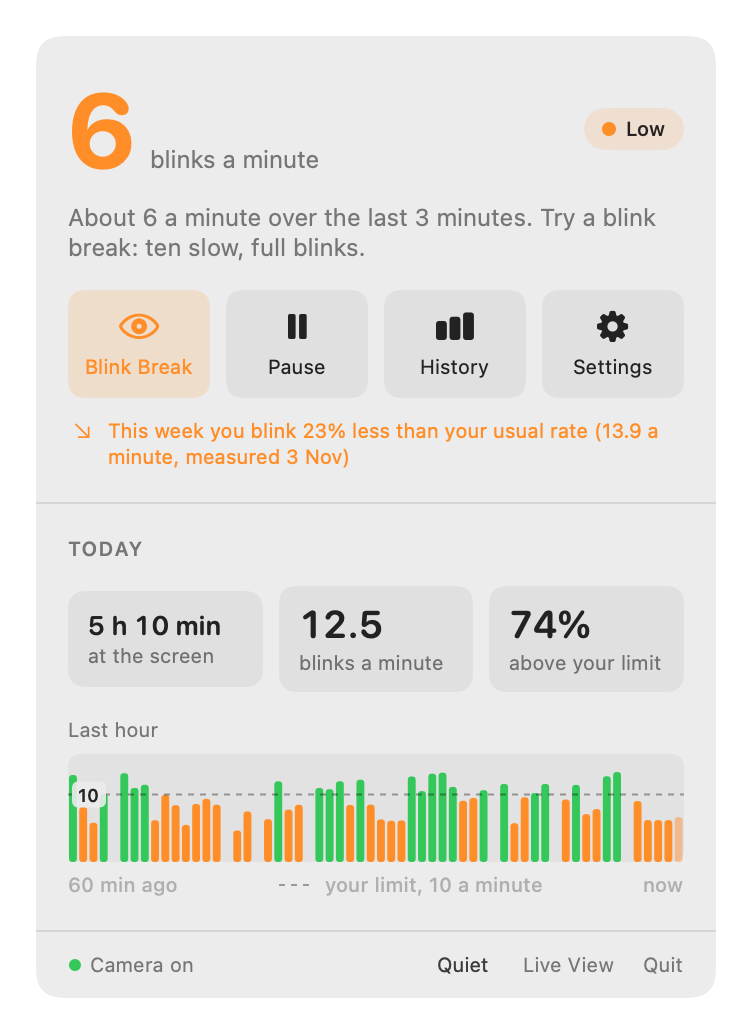
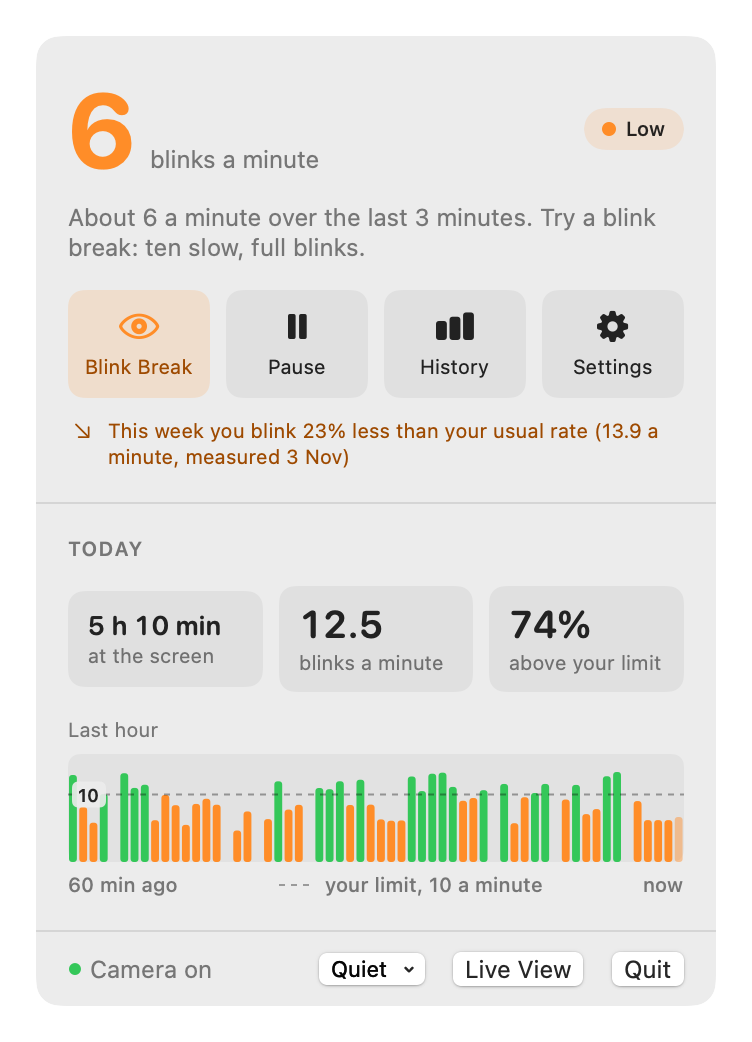
Reading comfort: warnings one can read, the Mac's display settings honoured, chips that wrap
Orange text on the light background was about 1.9 to 1. Warnings are now
written in an orange made for text, darker in light mode and under Increase
Contrast; bars and dots keep the plain orange. Reduce Motion stops the
menu-bar eye from blinking back and the dot from pulsing. Differentiate
without colour draws bars under the limit hollow. The tick of a done step
sits on a darker green. The chart's legend and axis leave the faintest grey,
and Quiet, Live View and Quit are drawn as buttons. Each of the panel's four
tiles has a letter, said in its tooltip. A routine's times go to a second
line when one is not enough: they used to disappear.

diff --git a/Sources/BlinkMonitor/MenuBar/MenuPanelView.swift b/Sources/BlinkMonitor/MenuBar/MenuPanelView.swift
@@ -241,11 +241,13 @@ private struct StatusPill: View {
     let color: Color
     /// The dot swells for a moment each time this changes: one pulse per blink.
     let pulse: Int
+    @Environment(\.accessibilityReduceMotion) private var reduceMotion
 
     var body: some View {
         HStack(spacing: 5) {
+            // With Reduce Motion the dot does not swell: the count beside it still moves.
             Circle().fill(color).frame(width: 7, height: 7)
-                .phaseAnimator([1.0, 1.9, 1.0], trigger: pulse) { dot, scale in
+                .phaseAnimator(reduceMotion ? [1.0] : [1.0, 1.9, 1.0], trigger: pulse) { dot, scale in
                     dot.scaleEffect(scale)
                 } animation: { _ in .easeOut(duration: 0.14) }
             Text(text).font(.caption.weight(.medium))
@@ -351,7 +353,7 @@ private struct Notes: View {
             lines.append(("checkmark.circle", tally, .secondary))
         }
         if reminders.notificationsRefused, preferences.remindersOn || preferences.breakNudgesOn {
-            lines.append(("bell.slash", "Notifications are off for Blink Monitor: reminders only show here and in the menu bar. Settings says how to allow them.", .orange))
+            lines.append(("bell.slash", "Notifications are off for Blink Monitor: reminders only show here and in the menu bar. Settings says how to allow them.", .warningText))
         }
         guard preferences.automaticLimit else { return lines }
         if let reference = preferences.reference {
@@ -360,7 +362,7 @@ private struct Notes: View {
                drift >= Baseline.driftWorthSaying {
                 lines.append(("arrow.down.right",
                               String(format: "This week you blink %.0f%% less than your usual rate (%@ a minute, measured %@)",
-                                     drift * 100, Format.rate(reference.rate), Format.day(reference.measuredOn)), .orange))
+                                     drift * 100, Format.rate(reference.rate), Format.day(reference.measuredOn)), .warningText))
             }
         } else {
             lines.append(("gauge.with.needle",
@@ -431,7 +433,7 @@ private struct TodaySection: View {
                     Text("now")
                 }
                 .font(.caption2)
-                .foregroundStyle(.tertiary)
+                .foregroundStyle(.secondary)       // it says what the chart is: not the faintest grey
             }
         }
     }
@@ -465,6 +467,7 @@ private struct DashedLine: View {
 /// Orange = under the limit (the dashed line). The minute in progress is drawn lighter:
 /// its rate is not final.
 private struct MinuteBars: View {
+    @Environment(\.accessibilityDifferentiateWithoutColor) private var withoutColour
     let hour: LastHour
     let limit: Double
     let hovered: Int?
@@ -487,7 +490,13 @@ private struct MinuteBars: View {
                 let bar = CGRect(x: CGFloat(59 - ago) * slot + 0.5, y: size.height - height,
                                  width: max(slot - 1.2, 1), height: height)
                 let colour: Color = rate < limit ? .orange : .green
-                context.fill(Path(roundedRect: bar, cornerRadius: 1.5), with: .color(colour.opacity(ago == 0 ? 0.45 : 1)))
+                if withoutColour && rate < limit {
+                    // "Differentiate without colour": a minute under the limit is hollow.
+                    context.stroke(Path(roundedRect: bar.insetBy(dx: 0.6, dy: 0.6), cornerRadius: 1.5),
+                                   with: .color(colour.opacity(ago == 0 ? 0.45 : 1)), lineWidth: 1.2)
+                } else {
+                    context.fill(Path(roundedRect: bar, cornerRadius: 1.5), with: .color(colour.opacity(ago == 0 ? 0.45 : 1)))
+                }
             }
 
             guard !hour.isEmpty else { return }       // nothing to compare with the limit yet
@@ -546,26 +555,34 @@ private struct ActionTiles: View {
                 }
                 .disabled(!status.isCameraOn)
                 // A greyed tile says why.
-                .help(status.isCameraOn ? "Ten slow, full blinks, counted by the camera"
+                .help(status.isCameraOn ? "Ten slow, full blinks, counted by the camera (B)"
                                         : "The camera counts the blinks of a blink break, and it is off now.")
+                .keyboardShortcut("b", modifiers: [])
 
                 if model.isPaused {
                     // During a timer, Resume is there but not the thing to press: the
                     // camera comes back by itself when the timer ends.
                     let timed = model.routines.session.session != nil
                     ActionTile(symbol: "play.fill", title: "Resume", tint: timed ? nil : .accentColor) { model.resume() }
-                        .help(timed ? "Turn the camera back on now, before the timer ends" : "Turn the camera back on")
+                        .help(timed ? "Turn the camera back on now, before the timer ends (P)" : "Turn the camera back on (P)")
+                        .keyboardShortcut("p", modifiers: [])
                 } else {
                     ActionTile(symbol: "pause.fill", title: "Pause", tint: state.choosingPause ? .accentColor : nil) {
                         state.choosingPause.toggle()
                     }
                     .disabled(model.lifecycle != .running)
-                    .help(model.lifecycle == .running ? "Turn the camera off: its green light goes out"
+                    .help(model.lifecycle == .running ? "Turn the camera off: its green light goes out (P)"
                                                       : "The camera is not running, so there is nothing to pause.")
+                    .keyboardShortcut("p", modifiers: [])
                 }
 
+                // A letter for each tile, said in its tooltip: the panel had no keyboard path.
                 ActionTile(symbol: "chart.bar.fill", title: "History") { actions.openHistory() }
+                    .help("Your last seven days, hour by hour (H)")
+                    .keyboardShortcut("h", modifiers: [])
                 ActionTile(symbol: "gearshape.fill", title: "Settings") { actions.openSettings() }
+                    .help("Every choice the app remembers (S, or Command-comma)")
+                    .keyboardShortcut("s", modifiers: [])
             }
 
             if state.choosingPause && !model.isPaused {
@@ -608,7 +625,6 @@ private struct FooterRow: View {
                         .help("The green light beside the camera is Blink Monitor counting your blinks. Pause turns it off.")
                 } else {
                     Text("Blink Monitor \(AppInfo.version)")
-                        .foregroundStyle(.tertiary)
                 }
                 Spacer()
                 if bare {
@@ -621,10 +637,9 @@ private struct FooterRow: View {
                     Button("For 1 Hour") { model.reminders.setQuiet(.oneHour) }
                     Button("Until Tomorrow") { model.reminders.setQuiet(.untilTomorrow) }
                 } label: {
-                    Text("Quiet").font(.caption).foregroundStyle(.secondary)
+                    Text("Quiet")
                 }
-                .menuStyle(.borderlessButton)
-                .menuIndicator(.hidden)
+                .menuStyle(.button)
                 .controlSize(.small)
                 .fixedSize()
                 .help("No reminder, no look-away break and no sound for a while. Blinks are still counted.")
@@ -633,8 +648,9 @@ private struct FooterRow: View {
                 }
                 Button("Quit") { actions.quit() }
             }
-            .font(.caption)
-            .buttonStyle(.plain)
+            // Drawn as buttons, at a size one can read: they were three grey words.
+            .font(.callout)
+            .controlSize(.small)
             .foregroundStyle(.secondary)
     }
 }
@@ -679,10 +695,12 @@ private struct ActionTile: View {
                 Image(systemName: symbol)
                     .font(.system(size: 15, weight: .medium))
                     .frame(height: 18)
+                // The word of an orange tile is written in the orange made for text.
                 Text(title)
                     .font(.caption)
                     .lineLimit(1)
                     .minimumScaleFactor(0.85)
+                    .foregroundStyle(tint == .orange ? Color.warningText : (tint ?? .primary))
             }
             .frame(maxWidth: .infinity)
             .padding(.vertical, 9)

diff --git a/Sources/BlinkUI/Comfort.swift b/Sources/BlinkUI/Comfort.swift
@@ -1,0 +1,73 @@
+import SwiftUI
+import AppKit
+
+/// Reading comfort: the colours and the system settings that people with tired eyes rely
+/// on. They are the people this app is for.
+public extension Color {
+
+    /// Orange for TEXT. Plain orange on the light window background is about 1.9 to 1,
+    /// where 4.5 to 1 is the usual minimum: the app's warnings were its least readable
+    /// words. This one is darkened in light mode (about 5 to 1), and darker still when
+    /// Increase Contrast is on. Bars, dots and symbols keep the plain orange.
+    static let warningText = Color(nsColor: NSColor(name: nil) { appearance in
+        switch appearance.bestMatch(from: [.aqua, .darkAqua, .accessibilityHighContrastAqua, .accessibilityHighContrastDarkAqua]) {
+        case .darkAqua: return .systemOrange
+        case .accessibilityHighContrastDarkAqua: return NSColor(srgbRed: 1.0, green: 0.72, blue: 0.35, alpha: 1)
+        case .accessibilityHighContrastAqua: return NSColor(srgbRed: 0.48, green: 0.21, blue: 0.0, alpha: 1)
+        default: return NSColor(srgbRed: 0.62, green: 0.29, blue: 0.0, alpha: 1)
+        }
+    })
+
+    /// Green under a white tick. White on the system green is about 2.2 to 1.
+    static let doneGreen = Color(nsColor: NSColor(srgbRed: 0.12, green: 0.52, blue: 0.24, alpha: 1))
+}
+
+/// What macOS says in System Settings > Accessibility > Display, for the parts of the app
+/// that are not SwiftUI views (the menu-bar item).
+public enum Comfort {
+    /// Reduce Motion: the menu-bar eye stops blinking back, about 15 times a minute at
+    /// the edge of vision.
+    public static var reduceMotion: Bool { NSWorkspace.shared.accessibilityDisplayShouldReduceMotion }
+}
+
+/// Lays chips out side by side and goes to a new line when they do not fit. A routine's
+/// times simply disappeared when they were too many for one line, which a 12-hour clock
+/// ("8:00 AM") makes likely.
+public struct WrappingRow: Layout {
+    private let spacing: CGFloat
+
+    public init(spacing: CGFloat = 6) {
+        self.spacing = spacing
+    }
+
+    public func sizeThatFits(proposal: ProposedViewSize, subviews: Subviews, cache: inout ()) -> CGSize {
+        let rows = place(subviews, width: proposal.width ?? .infinity)
+        return CGSize(width: rows.width, height: rows.height)
+    }
+
+    public func placeSubviews(in bounds: CGRect, proposal: ProposedViewSize, subviews: Subviews, cache: inout ()) {
+        let rows = place(subviews, width: bounds.width)
+        for (subview, point) in zip(subviews, rows.points) {
+            subview.place(at: CGPoint(x: bounds.minX + point.x, y: bounds.minY + point.y), proposal: .unspecified)
+        }
+    }
+
+    /// Where each subview goes, and the size of the whole.
+    private func place(_ subviews: Subviews, width: CGFloat) -> (points: [CGPoint], width: CGFloat, height: CGFloat) {
+        var points: [CGPoint] = []
+        var x: CGFloat = 0, y: CGFloat = 0, rowHeight: CGFloat = 0, widest: CGFloat = 0
+        for subview in subviews {
+            let size = subview.sizeThatFits(.unspecified)
+            if x > 0, x + size.width > width {
+                x = 0
+                y += rowHeight + spacing
+                rowHeight = 0
+            }
+            points.append(CGPoint(x: x, y: y))
+            x += size.width + spacing
+            rowHeight = max(rowHeight, size.height)
+            widest = max(widest, x - spacing)
+        }
+        return (points, widest, y + rowHeight)
+    }
+}

diff --git a/Sources/BlinkMonitor/MenuBar/HistoryView.swift b/Sources/BlinkMonitor/MenuBar/HistoryView.swift
@@ -160,7 +160,7 @@ struct HistoryView: View {
            let drift = Baseline.drift(reference: reference, recent: weekRecords) {
             let measured = "your usual rate of \(Format.rate(reference.rate)) a minute, measured on \(Format.day(reference.measuredOn))"
             if drift >= Baseline.driftWorthSaying {
-                findings.append(("arrow.down.right", String(format: "This week you blink %.0f%% less than %@. The limit has not moved.", drift * 100, measured), .orange))
+                findings.append(("arrow.down.right", String(format: "This week you blink %.0f%% less than %@. The limit has not moved.", drift * 100, measured), .warningText))
             } else if drift <= -Baseline.driftWorthSaying {
                 findings.append(("arrow.up.right", String(format: "This week you blink %.0f%% more than %@.", -drift * 100, measured), .primary))
             }
@@ -192,7 +192,7 @@ private struct NothingYet: View {
         VStack(spacing: 10) {
             Image(systemName: "chart.bar.xaxis")
                 .font(.system(size: 38))
-                .foregroundStyle(.tertiary)
+                .foregroundStyle(.secondary)
             Text("Nothing recorded yet")
                 .font(.system(size: 17, weight: .semibold))
             Text("One line is kept for every minute counted. After a few minutes this window shows your days, each of them hour by hour, and the hours when your rate drops.")
@@ -337,6 +337,7 @@ struct HeatMap: View {
 /// A plain bar chart: one bar per value (nil = nothing recorded), a dashed threshold line.
 /// With `onSelect`, a click on a bar's column chooses it, and `selected` is drawn as chosen.
 struct BarChart: View {
+    @Environment(\.accessibilityDifferentiateWithoutColor) private var withoutColour
 
     struct Bar {
         let label: String
@@ -383,8 +384,14 @@ struct BarChart: View {
                 if let value = bar.value {
                     let height = max(3, CGFloat(value / top) * plot.height)
                     let rect = CGRect(x: centre - barWidth / 2, y: plot.maxY - height, width: barWidth, height: height)
-                    context.fill(Path(roundedRect: rect, cornerRadius: min(4, barWidth / 3)),
-                                 with: .color(Insights.isUnder(value, limit: threshold) ? .orange : .green))
+                    let under = Insights.isUnder(value, limit: threshold)
+                    if withoutColour && under {
+                        // "Differentiate without colour": a bar under the limit is hollow.
+                        context.stroke(Path(roundedRect: rect.insetBy(dx: 1, dy: 1), cornerRadius: min(4, barWidth / 3)),
+                                       with: .color(.orange), lineWidth: 2)
+                    } else {
+                        context.fill(Path(roundedRect: rect, cornerRadius: min(4, barWidth / 3)), with: .color(under ? .orange : .green))
+                    }
                     if showValues {
                         // Above the bar - or above the limit line, when that line would
                         // otherwise run through the figures.

diff --git a/Sources/BlinkMonitor/Setup/SetupView.swift b/Sources/BlinkMonitor/Setup/SetupView.swift
@@ -154,7 +154,7 @@ private struct StepsBar: View {
                 }
                 HStack(spacing: 6) {
                     ZStack {
-                        Circle().fill(entry.0 < step ? Color.green : (entry.0 == step ? Color.accentColor : Color.primary.opacity(0.1)))
+                        Circle().fill(entry.0 < step ? Color.doneGreen : (entry.0 == step ? Color.accentColor : Color.primary.opacity(0.1)))
                         if entry.0 < step {
                             Image(systemName: "checkmark").font(.system(size: 10, weight: .bold)).foregroundStyle(.white)
                         } else {
@@ -550,7 +550,7 @@ private struct RecordPage: View {
             HStack(spacing: 10) {
                 Text(footnote)
                     .font(.callout)
-                    .foregroundStyle((model.faceFound && !model.soundMuted) || model.sessionRunning ? Color.secondary : Color.orange)
+                    .foregroundStyle((model.faceFound && !model.soundMuted) || model.sessionRunning ? Color.secondary : Color.warningText)
                     .fixedSize(horizontal: false, vertical: true)
                 Spacer(minLength: 12)
                 buttons
@@ -655,7 +655,7 @@ private struct SessionBanner: View {
                     .font(.system(size: 22, weight: .bold, design: .rounded))
                 if let note = model.sessionNote {
                     Label(note, systemImage: "exclamationmark.triangle.fill")
-                        .foregroundStyle(.orange)
+                        .foregroundStyle(Color.warningText)
                         .fixedSize(horizontal: false, vertical: true)
                 }
                 ForEach(guidance.lines, id: \.self) { line in
@@ -916,7 +916,7 @@ private struct ProofPage: View {
                 if model.camera == .on && !model.faceFound && model.proof != .running {
                     Text("No face in view: the test can start once the camera sees you.")
                         .font(.callout)
-                        .foregroundStyle(.orange)
+                        .foregroundStyle(Color.warningText)
                 }
                 Spacer(minLength: 12)
                 buttons

diff --git a/Sources/BlinkMonitor/MenuBar/StatusItemController.swift b/Sources/BlinkMonitor/MenuBar/StatusItemController.swift
@@ -2,6 +2,7 @@ import AppKit
 import SwiftUI
 import Combine
 import BlinkCore
+import BlinkUI
 
 /// The app's place in the menu bar: an eye and your blinks per minute. A click opens a
 /// small panel under it.
@@ -113,7 +114,8 @@ final class StatusItemController: NSObject, NSPopoverDelegate {
     /// (It answers during the setup's test as well: that is the moment the question is asked.)
     private func blinkBack() {
         let status = model.status()
-        guard model.preferences.blinkBack, status.isCameraOn || status == .settingUp(.testing),
+        // Reduce Motion: no eye closing 15 times a minute at the edge of vision.
+        guard model.preferences.blinkBack, !Comfort.reduceMotion, status.isCameraOn || status == .settingUp(.testing),
               let closed = NSImage(systemSymbolName: "eye.half.closed", accessibilityDescription: "Blink Monitor") else { return }
         closed.isTemplate = true
         item.button?.image = closed

diff --git a/Sources/BlinkMonitor/MenuBar/RoutineViews.swift b/Sources/BlinkMonitor/MenuBar/RoutineViews.swift
@@ -330,14 +330,11 @@ private struct RoutineRow: View {
                     .font(.caption)
                     .foregroundStyle(.secondary)
             }
-            // The times, side by side. With too many to fit, the summary above says enough.
-            // (A routine "at the screen" has no times to list.)
+            // The times, side by side, on a second line when one is not enough: they used
+            // to disappear when they did not fit. (A routine "at the screen" has no times to list.)
             if day.screen == nil {
-                ViewThatFits(in: .horizontal) {
-                    HStack(spacing: 6) {
-                        ForEach(day.slots) { TimeChip(slot: $0) }
-                    }
-                    EmptyView()
+                WrappingRow(spacing: 6) {
+                    ForEach(day.slots) { TimeChip(slot: $0) }
                 }
             }
             if let running {

diff --git a/Sources/BlinkMonitor/LiveView/LiveView.swift b/Sources/BlinkMonitor/LiveView/LiveView.swift
@@ -34,7 +34,7 @@ struct LiveView: View {
                 // Said for as long as the mode is on, not only while a capture runs.
                 Text("Captures also keep the whole camera picture (your face), in \(folder.path), as asked when the app was started.")
                     .font(.callout)
-                    .foregroundStyle(.orange)
+                    .foregroundStyle(Color.warningText)
                     .frame(maxWidth: .infinity, alignment: .leading)
             }
             HStack(spacing: 10) {
